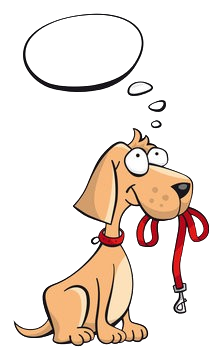
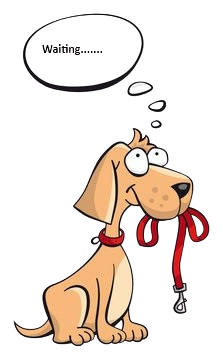
fixed css bugs and changed dog pic in empty results

diff --git a/src/components/Profile/index.js b/src/components/Profile/index.js
@@ -1,6 +1,6 @@
 import React, {useEffect, useState, useRef} from "react";
 import {useSelector, useDispatch} from 'react-redux';
-import {selectUser} from '../../redux/usersSlice';
+import { Link, useLocation } from 'react-router-dom';
 import {useNavigate} from 'react-router';
 import { logout } from "../../redux/usersSlice";
 import profile from '../../assets/puppy_profile_pic.png';
@@ -10,6 +10,7 @@ function Profile({user}) {
     const dispatch = useDispatch();
     const navigate = useNavigate();
     const ulRef = useRef();
+    const thisLocation = useLocation();
 
     const [showMenu, setShowMenu] = useState(false);
 
@@ -49,6 +50,15 @@ function Profile({user}) {
           <>
          <div className='menu'>
          <div className='userName'> Hello {user}!</div>
+
+         <div className='breedSearchLink'>
+          <Link to="/breeds" className={thisLocation.pathname === "/breeds" ? "disabled-link" : ""}>
+          Search By Breed</Link></div>
+
+         <div className='locationSearchLink'>
+          <Link to="/locations" className={thisLocation.pathname === "/locations" ? "disabled-link" : ""}>
+          Search By Location</Link></div>
+
          <div className='buttonDiv'><button className='logoutButton' onClick={logoutUser}>Logout</button></div>
          </div>
          </>

diff --git a/src/components/Breeds/Breeds.css b/src/components/Breeds/Breeds.css
@@ -19,12 +19,12 @@
 
 ul.resultList {
   height: 20px;
- 
+
 }
 
 .resultList:hover{
   background-color: rgb(240, 240, 154);
- 
+
 }
 
 .filters-breed {
@@ -41,7 +41,7 @@ ul.resultList {
     left: 320px;
     width: 250px;
     padding: 10px;
-  
+
   }
 
 
@@ -125,7 +125,7 @@ ul.resultList {
     grid-area: 2/1;
     width: 100%;
     height: 100px;
-  
+
 
 }
 
@@ -203,11 +203,11 @@ ul.resultList {
   .breedChoices {
     position:absolute;
     margin-top: 10px;
-    margin-left:140px;
+    left:180px;
     font-weight: bold;
     font-size: 20px;
-    
-  
+
+
   }
 
   .chosenBreeds {

diff --git a/src/components/Profile/Profile.css b/src/components/Profile/Profile.css
@@ -51,4 +51,18 @@
     border-radius: 10px;
   }
 
-  
+  .disabled-link {
+    pointer-events: none;
+    color: gray;
+    text-decoration: none;
+    cursor: default;
+  }
+
+  a {
+    text-decoration: none;
+    color: white;
+  }
+
+  .breedSearchLink, .locationSearchLink {
+    margin: 3px;
+  }

diff --git a/src/components/BreedsResult/BreedsResult.css b/src/components/BreedsResult/BreedsResult.css
@@ -37,6 +37,7 @@
   height: 40px;
   align-items: center;
   width: 80%;
+  border-radius: 5px;
 }
 
 .nexPrevButtons{

diff --git a/src/components/LocationsResult/LocationsResult.css b/src/components/LocationsResult/LocationsResult.css
@@ -7,6 +7,7 @@
   height: 40px;
   align-items: center;
   width: 80%;
+  border-radius: 5px;
   }
 
 
